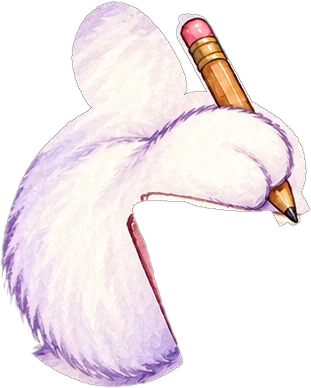
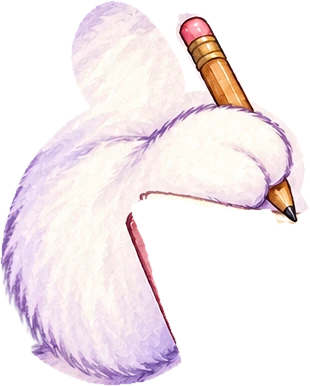
Atualiza a gatinha para a versão mais recente da Mascote (90fb5a3)
Traz o conserto da junção do braço do tchau com o corpo e os ajustes
da pose escrita que estavam só no repositório da Mascote (orelhas e
rabo mexendo menos, peças reencaixadas). Feito com
scripts/atualizar-mascote.sh; nenhuma mudança na forma de usar a
gatinha no app.

Claude-Session: https://claude.ai/code/session_01F8aUrcY6R3QJmeNPsSTLYf

diff --git a/mascote/fantoche.js b/mascote/fantoche.js
@@ -56,13 +56,13 @@
    * Peças do "Escrita_Kit_v4": separadas do próprio desenho original (sem redesenho), com as partes
    * escondidas reconstruídas por baixo. Olhos fechados: pálpebra pintada com o pelo da testa + risquinho do kit v3. */
   const PARTS_ESCRITA = [
-    { id: 'rabo',      img: 'e-rabo',         cx: 809,   cy: 1185.5, w: 430, pivot: [700, 1400], group: 'root' },
-    { id: 'base',      img: 'e-base',         cx: 483,   cy: 1077,   w: 778, group: 'root' },
-    { id: 'orelhaEsq', img: 'e-orelha-rosa',  cx: 363.5, cy: 242,    w: 369, pivot: [495, 385], group: 'head' },
-    { id: 'orelhaDir', img: 'e-orelha-lilas', cx: 786,   cy: 365,    w: 318, pivot: [675, 485], group: 'head' },
+    { id: 'rabo',      img: 'e-rabo',         cx: 809.5, cy: 1186,   w: 429, pivot: [700, 1400], group: 'root' },
+    { id: 'base',      img: 'e-base',         cx: 482.5, cy: 1078,   w: 777, group: 'root' },
+    { id: 'orelhaEsq', img: 'e-orelha-rosa',  cx: 363.5, cy: 241.5,  w: 367, pivot: [495, 385], group: 'head' },
+    { id: 'orelhaDir', img: 'e-orelha-lilas', cx: 787.5, cy: 365,    w: 317, pivot: [675, 485], group: 'head' },
     { id: 'cabeca',    img: 'e-cabeca',       cx: 469,   cy: 557,    w: 794, group: 'head' },
     { id: 'olhos',     slot: 'olhos', group: 'head' },
-    { id: 'maoLapis',  img: 'e-mao-lapis',    cx: 297.5, cy: 926,    w: 311, group: 'root', move: 'escrita' },
+    { id: 'maoLapis',  img: 'e-mao-lapis',    cx: 298,   cy: 926,    w: 310, group: 'root', move: 'escrita' },
   ];
   const SLOTS_ESCRITA = {
     olhos: {
@@ -78,7 +78,7 @@
   const POSES = {
     sentada: { label: 'Sentada', parts: PARTS, slots: SLOTS, neck: [505, 716], ground: [510, 1455], shadow: 330,
                fallback: {} },
-    escrita: { label: 'Escrevendo', parts: PARTS_ESCRITA, slots: SLOTS_ESCRITA, neck: [470, 830], ground: [515, 1452], shadow: 340, scale: 0.86,
+    escrita: { label: 'Escrevendo', parts: PARTS_ESCRITA, slots: SLOTS_ESCRITA, neck: [470, 830], ground: [515, 1452], shadow: 340, scale: 0.86, earScale: 0.45, tailRange: [-8, 0],
                write: true,
                fallback: { felizes: 'fechados', brilhantes: 'abertos', cima: 'abertos', caderno: 'abertos', aberta: 'sorriso', o: 'sorriso' } },
   };
@@ -332,9 +332,14 @@
         const g = base.multiply(p.group === 'head' ? headM : rootM);
         let m = g;
         let ang = p.rot || 0, alpha = 1;
-        if (p.id === 'rabo') ang += s.rabo;
-        if (p.id === 'orelhaEsq') ang += s.orelhaEsq;
-        if (p.id === 'orelhaDir') ang += s.orelhaDir;
+        if (p.id === 'rabo') {
+          if (P.tailRange) { // balança só dentro de uma faixa (ex.: só pra dentro, sem abrir fresta)
+            const [lo, hi] = P.tailRange, t01 = Math.min(1, Math.max(0, (s.rabo + 8) / 16));
+            ang += lo + (hi - lo) * t01;
+          } else ang += s.rabo;
+        }
+        if (p.id === 'orelhaEsq') ang += s.orelhaEsq * (P.earScale || 1);
+        if (p.id === 'orelhaDir') ang += s.orelhaDir * (P.earScale || 1);
         if (p.id === 'pataLevantada') { ang += s.pata + (1 - s.pataLevantada) * 35; alpha = s.pataLevantada; }
         if (p.id === 'pataDir') alpha = 1 - s.pataLevantada;
         if (p.id === 'bochechas') alpha = s.bochechas * 0.9;
